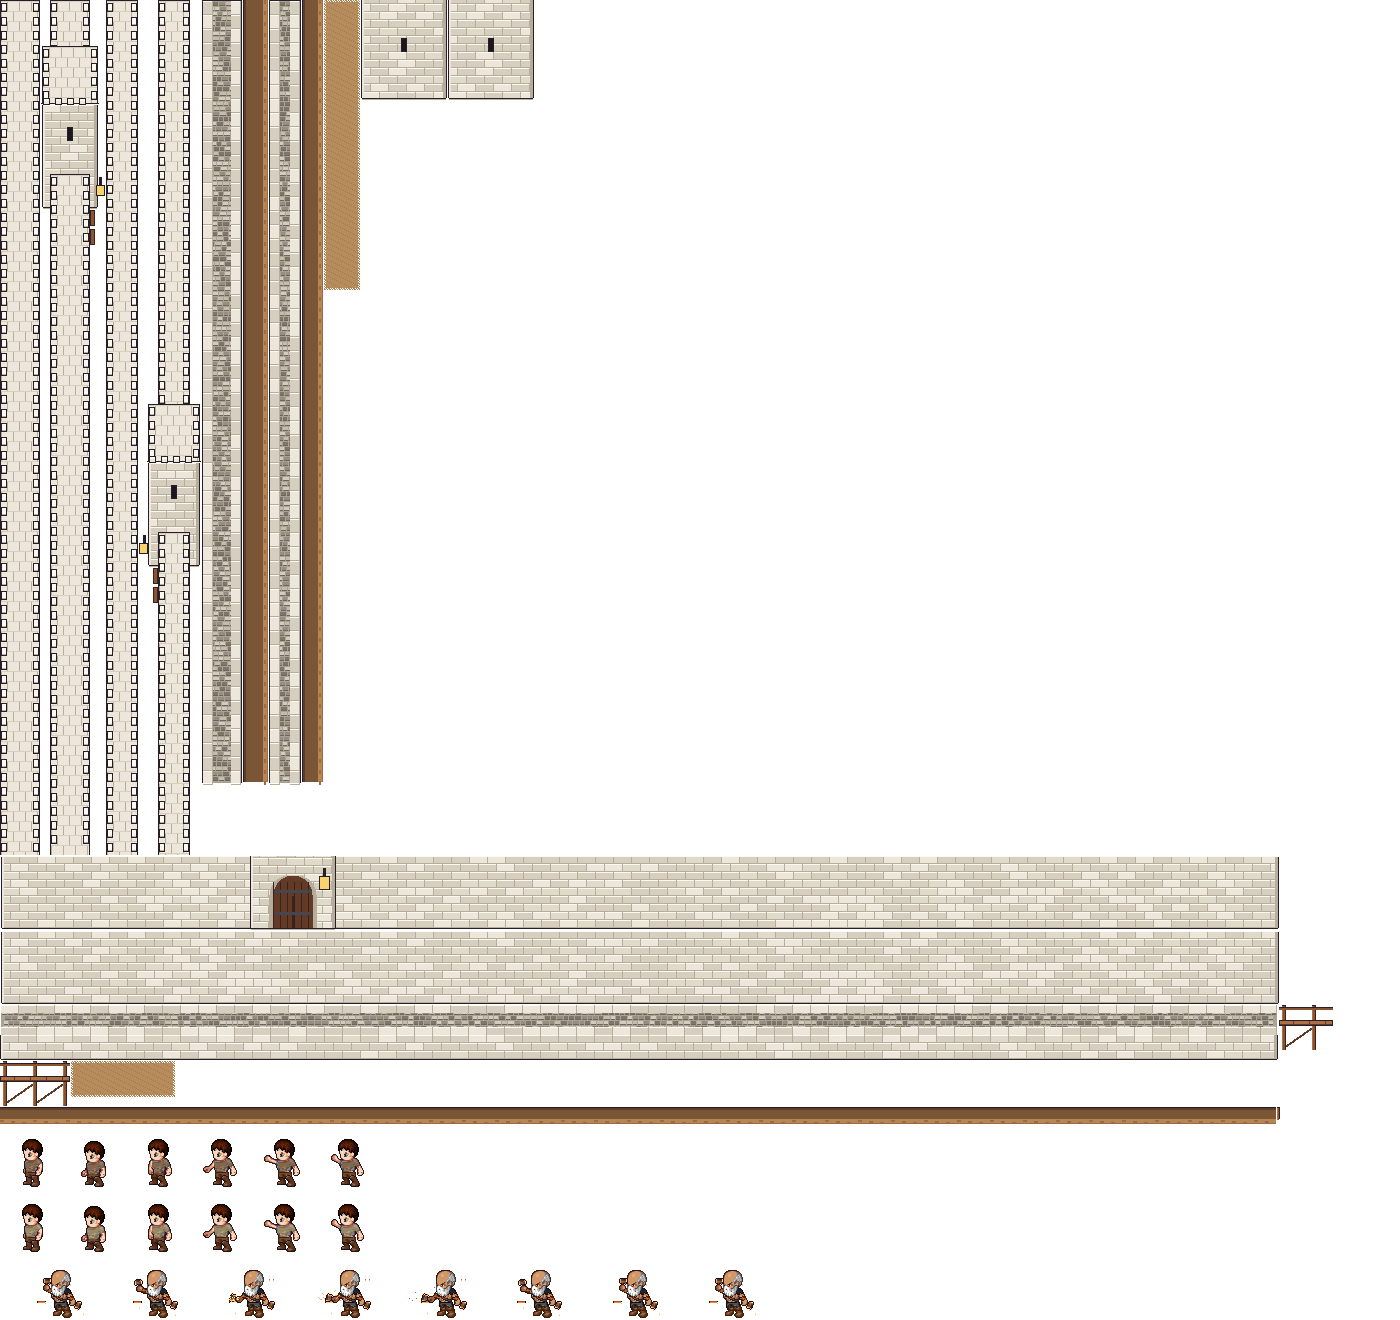
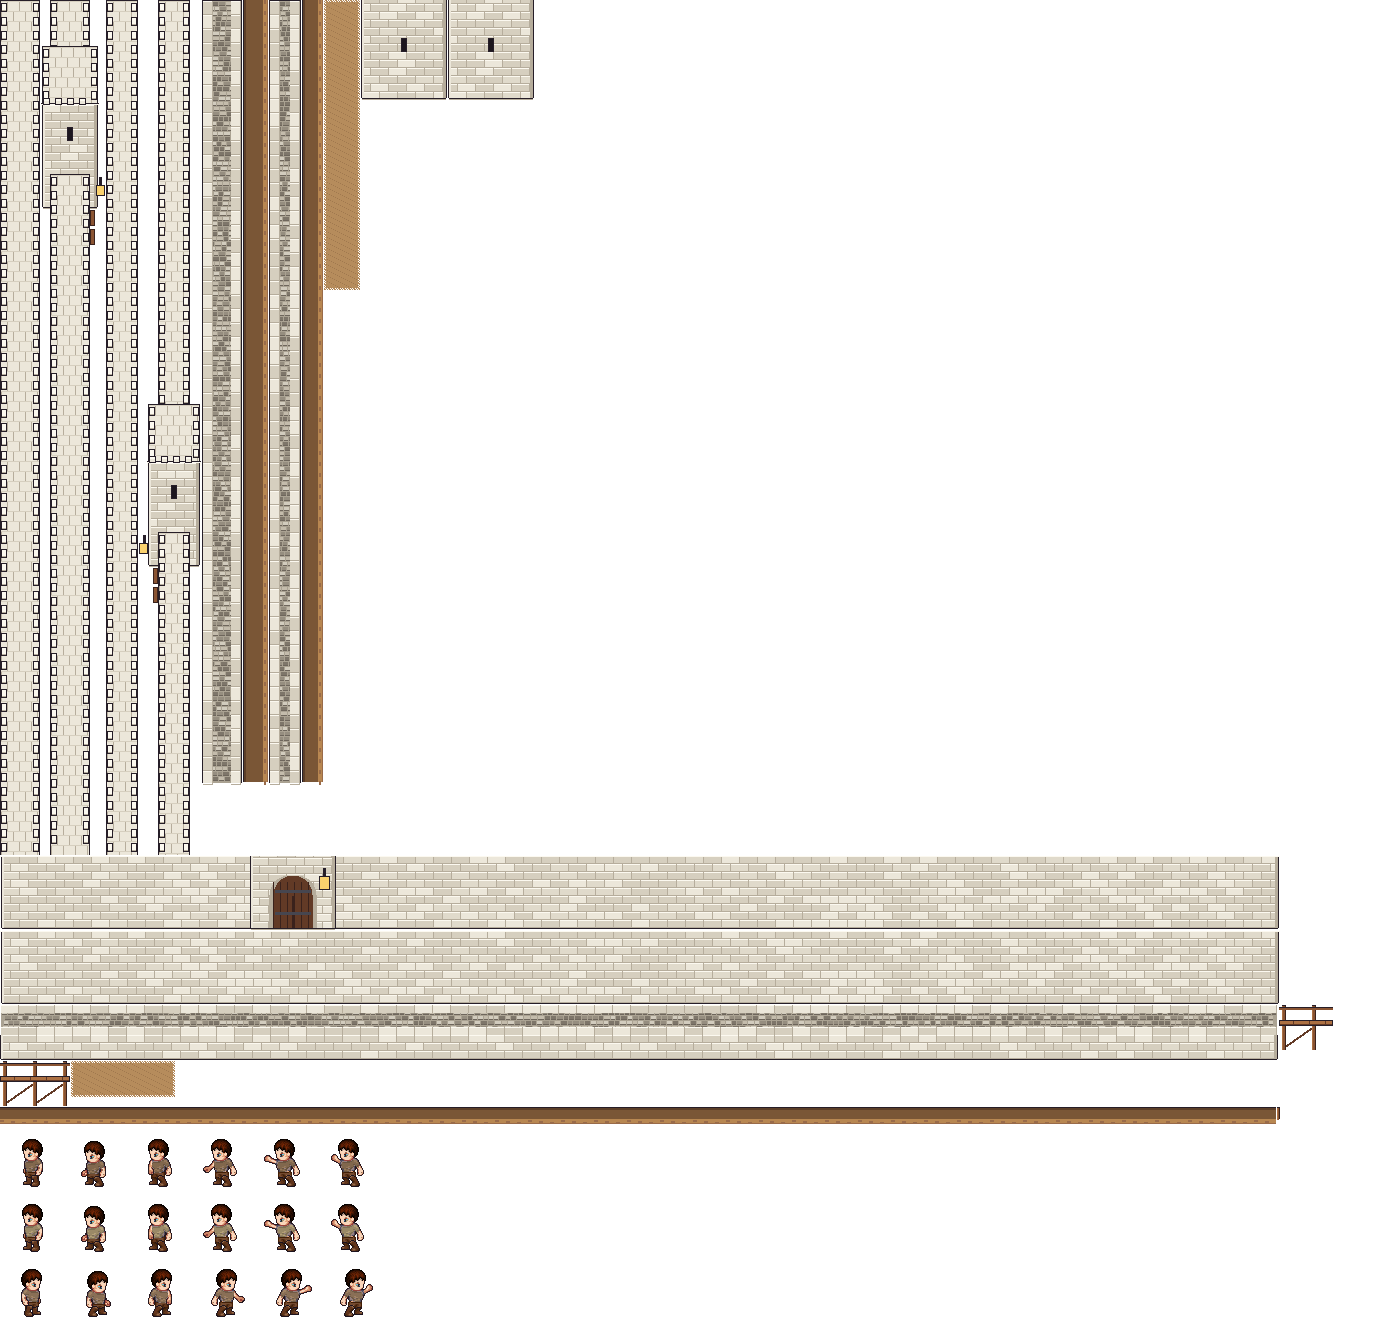
Le camp : le maçon du mur nord n'est plus Baba (un ouvrier LPC, comme à l'ouest et à l'est)
Il jouait le geste forge de forgeron.png : au-dessus de l'armurerie, on voyait Baba taper dans le vide, même en l'incarnant.

Ferme #224

diff --git a/design/camp/outils/murs_jeu.py b/design/camp/outils/murs_jeu.py
@@ -106,7 +106,7 @@ def bande(feuille, rang, cols, w, teinte=None):
     return imgs
 GENS = {'ouvrier ouest': bande('heros.png', 13, range(6), 64, (150, 120, 90)),
         'ouvrier est': bande('heros.png', 13, range(6), 64, (180, 160, 120)),
-        'macon nord': bande('forgeron.png', 0, range(8), 96)}
+        'macon nord': bande('heros.png', 15, range(6), 64, (160, 130, 100))}   # (pas Baba : c'est un héros qu'on incarne, il est à sa forge)
 
 # ---------- la planche
 L = 1400
